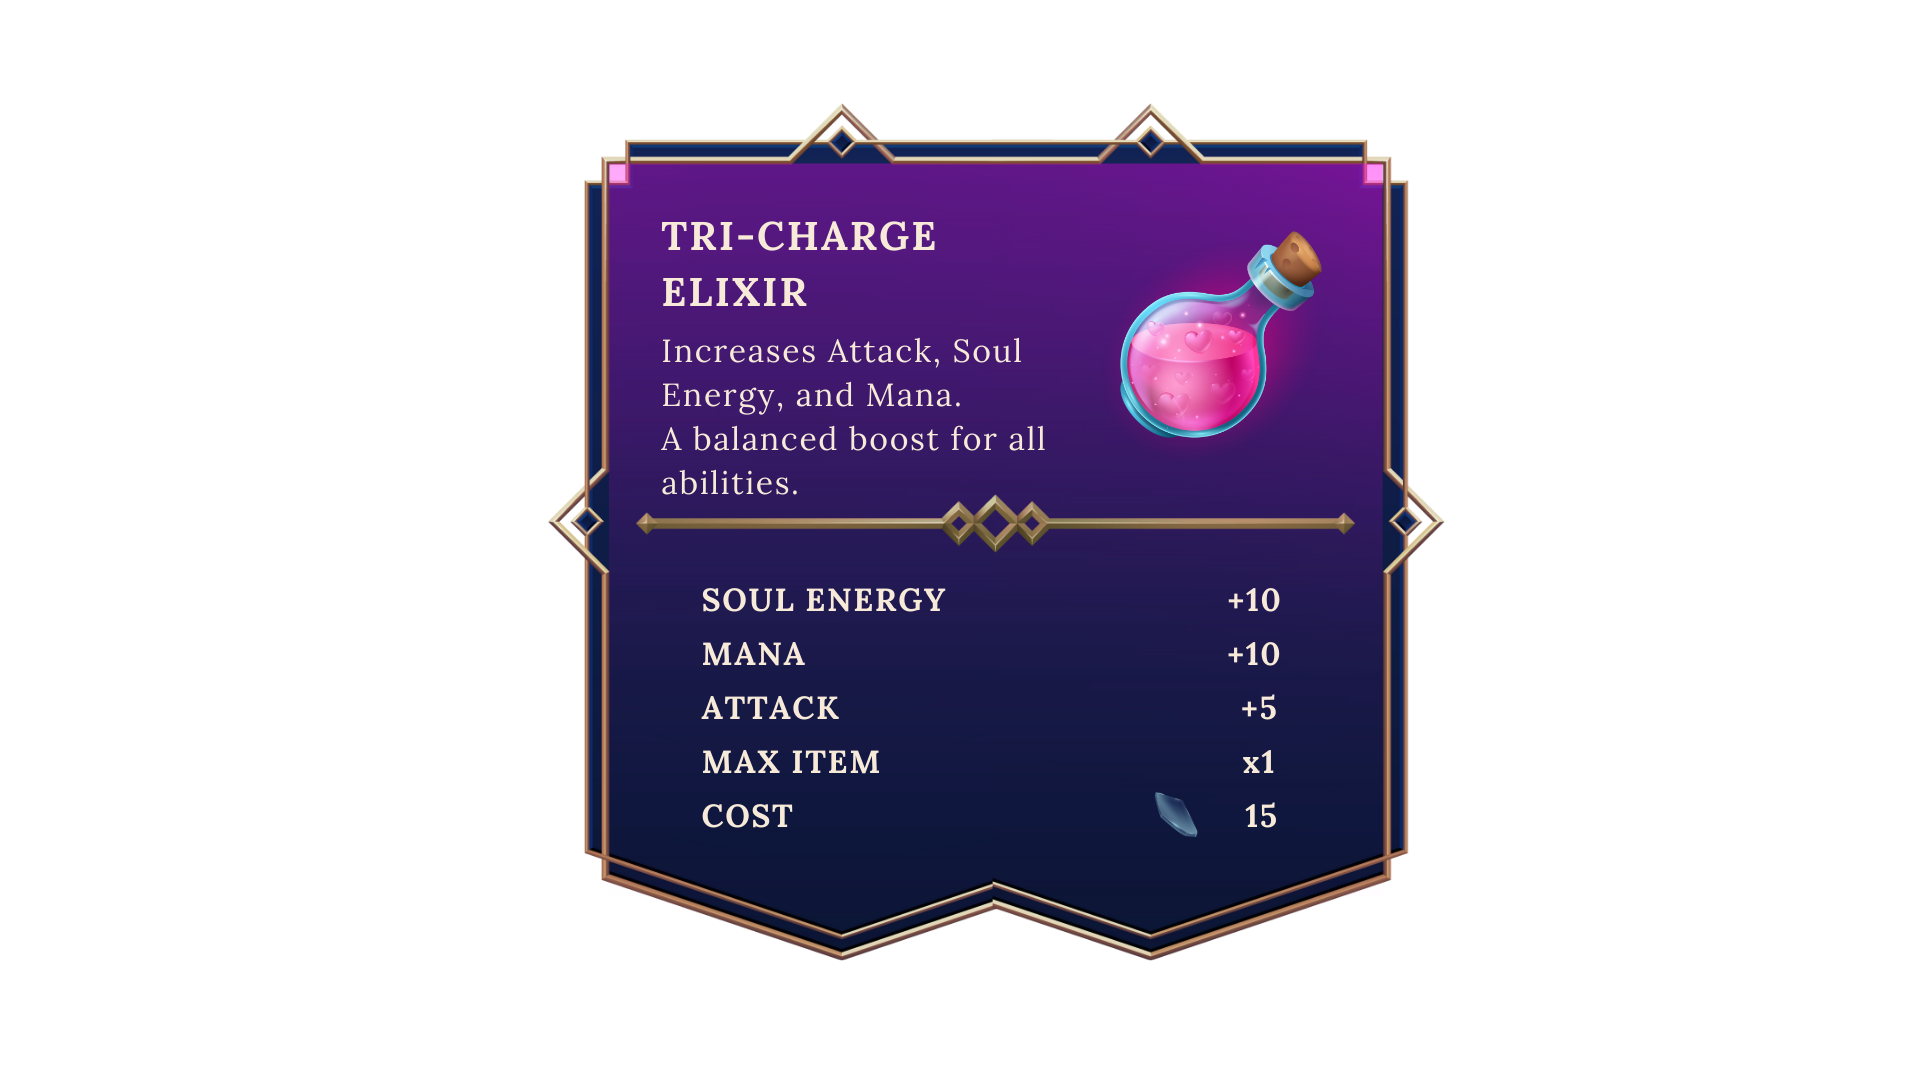
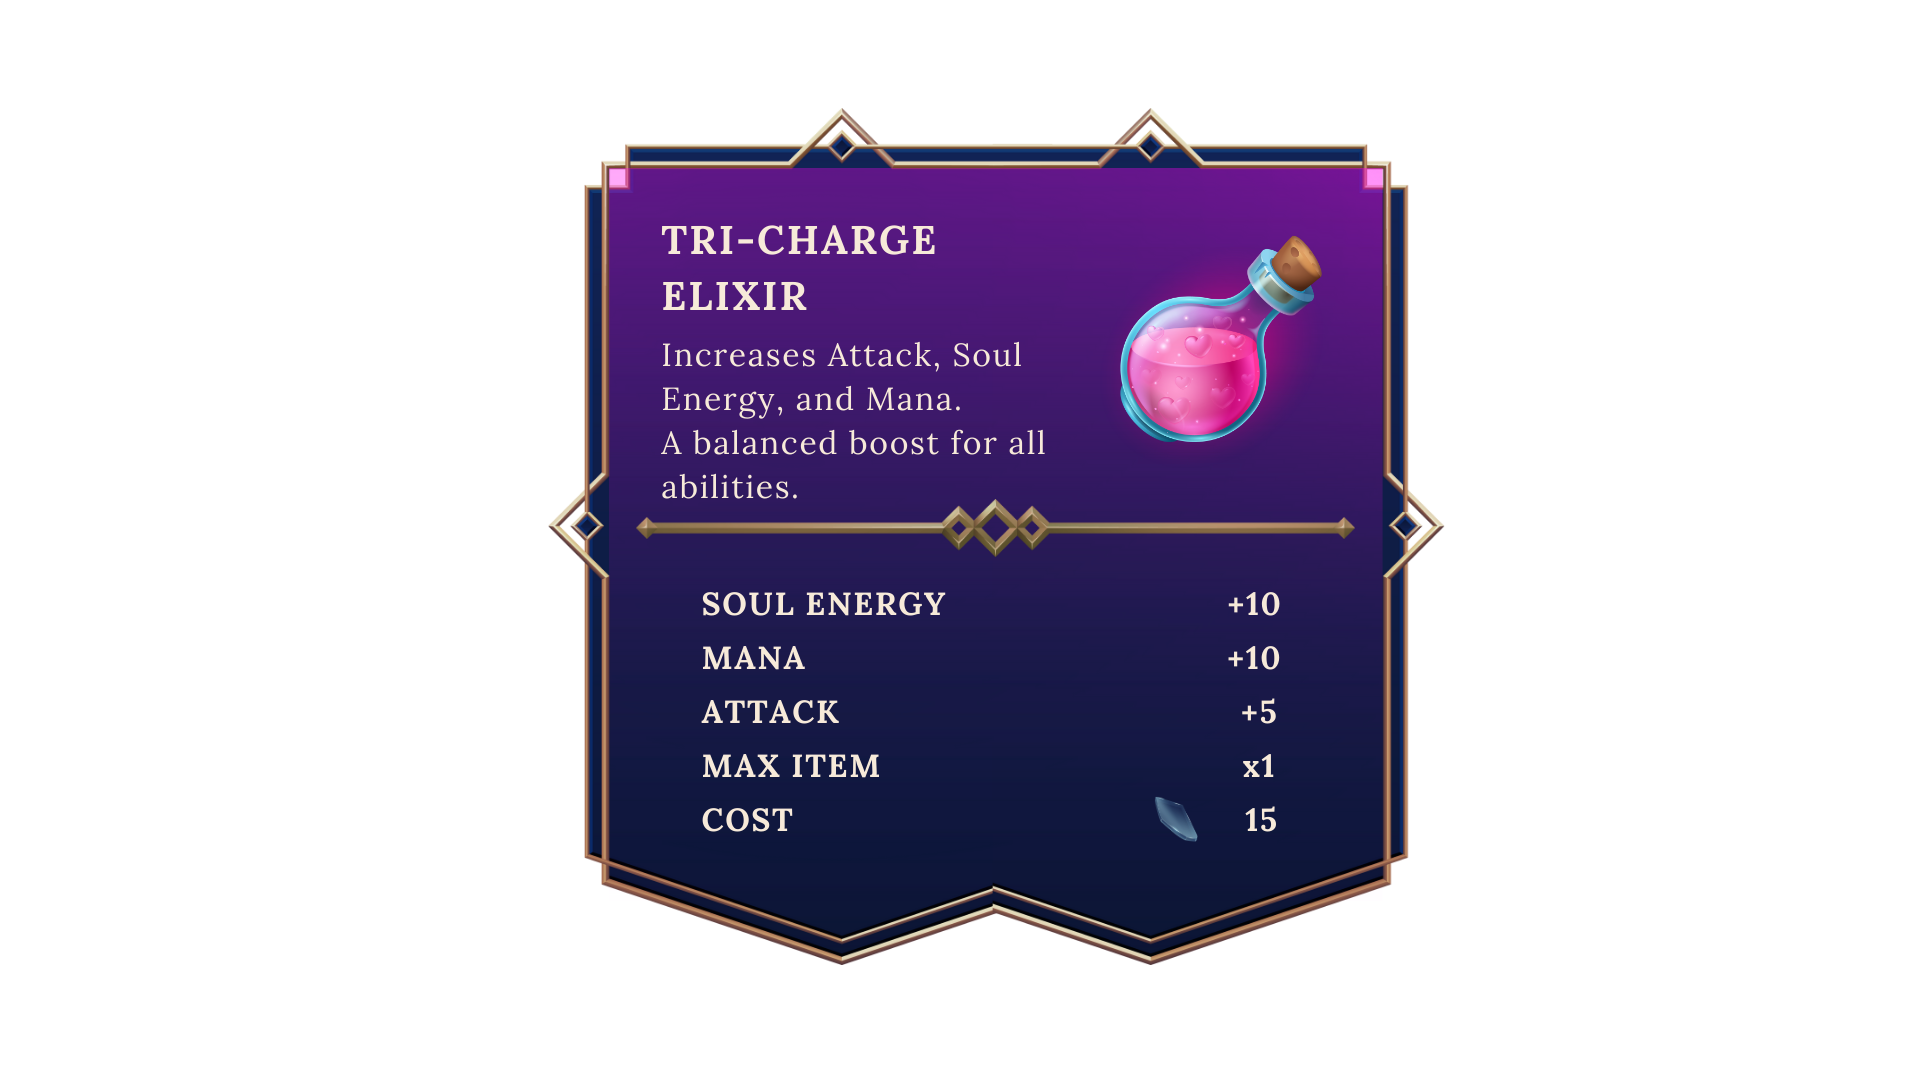
sidepanel edit

diff --git a/src/EOD/objects/shop/Shop.java b/src/EOD/objects/shop/Shop.java
@@ -41,8 +41,8 @@ public class Shop extends QuestableObjects{
     }
 
     private void showSidePanelBg(double width, double height) {
-        sidePanel = new EchoesObjects("shop", (int) (width * 0.3799), (int) (height * 0.240),
-                                      (int) (width * 0.58), (int) (height * 0.58), "sidePanel_", false, false, 5);
+        sidePanel = new EchoesObjects("shop", (int) (width * 0.318), (int) (height * 0.20),
+                                      (int) (width * 0.69), (int) (height * 0.68), "sidePanel_", false, false, 5);
         sidePanel.setVisible(true);
         add(sidePanel);
     }
@@ -81,15 +81,15 @@ public class Shop extends QuestableObjects{
     }
 
     private void showBuyButton(double width, double height) {
-        buyButton = new EchoesObjects("shop", (int) (width * 0.618), (int) (height * 0.717),
-                                      (int) (width * 0.13), (int) (height * 0.15), "buy_", false, true, 2);
+        buyButton = new EchoesObjects("shop", (int) (width * 0.6), (int) (height * 0.68),
+                                      (int) (width * 0.16), (int) (height * 0.18), "buy_", false, true, 2);
         buyButton.addMouseListener(new MouseClickListener(this));
         add(buyButton);
         setComponentZOrder(buyButton, 0);
     }
 
     private void showCloseButton(double width, double height) {
-        closeButton = new EchoesObjects("shop", (int) (width * 0.82), (int) (height * 0.189),
+        closeButton = new EchoesObjects("shop", (int) (width * 0.825), (int) (height * 0.168),
                                         (int) (width * 0.056), (int) (height * 0.1), "close_", false, true, 2);
         closeButton.setVisible(true);
         closeButton.addMouseListener(new MouseClickListener(this));
